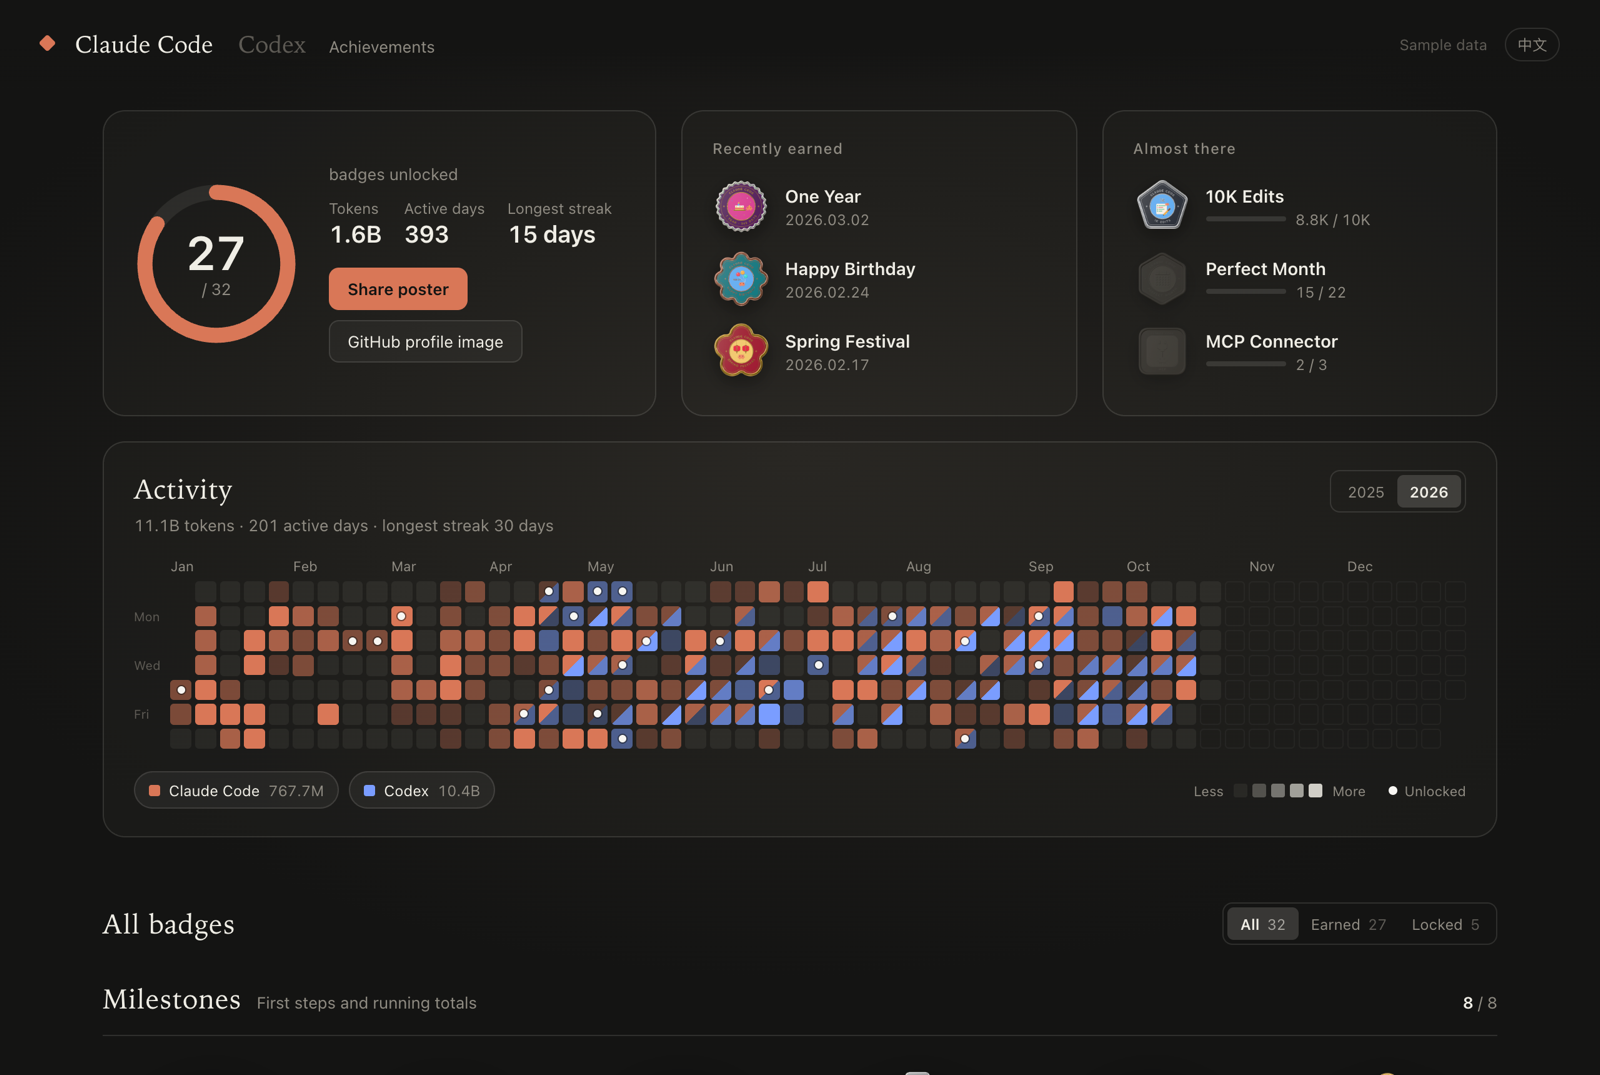
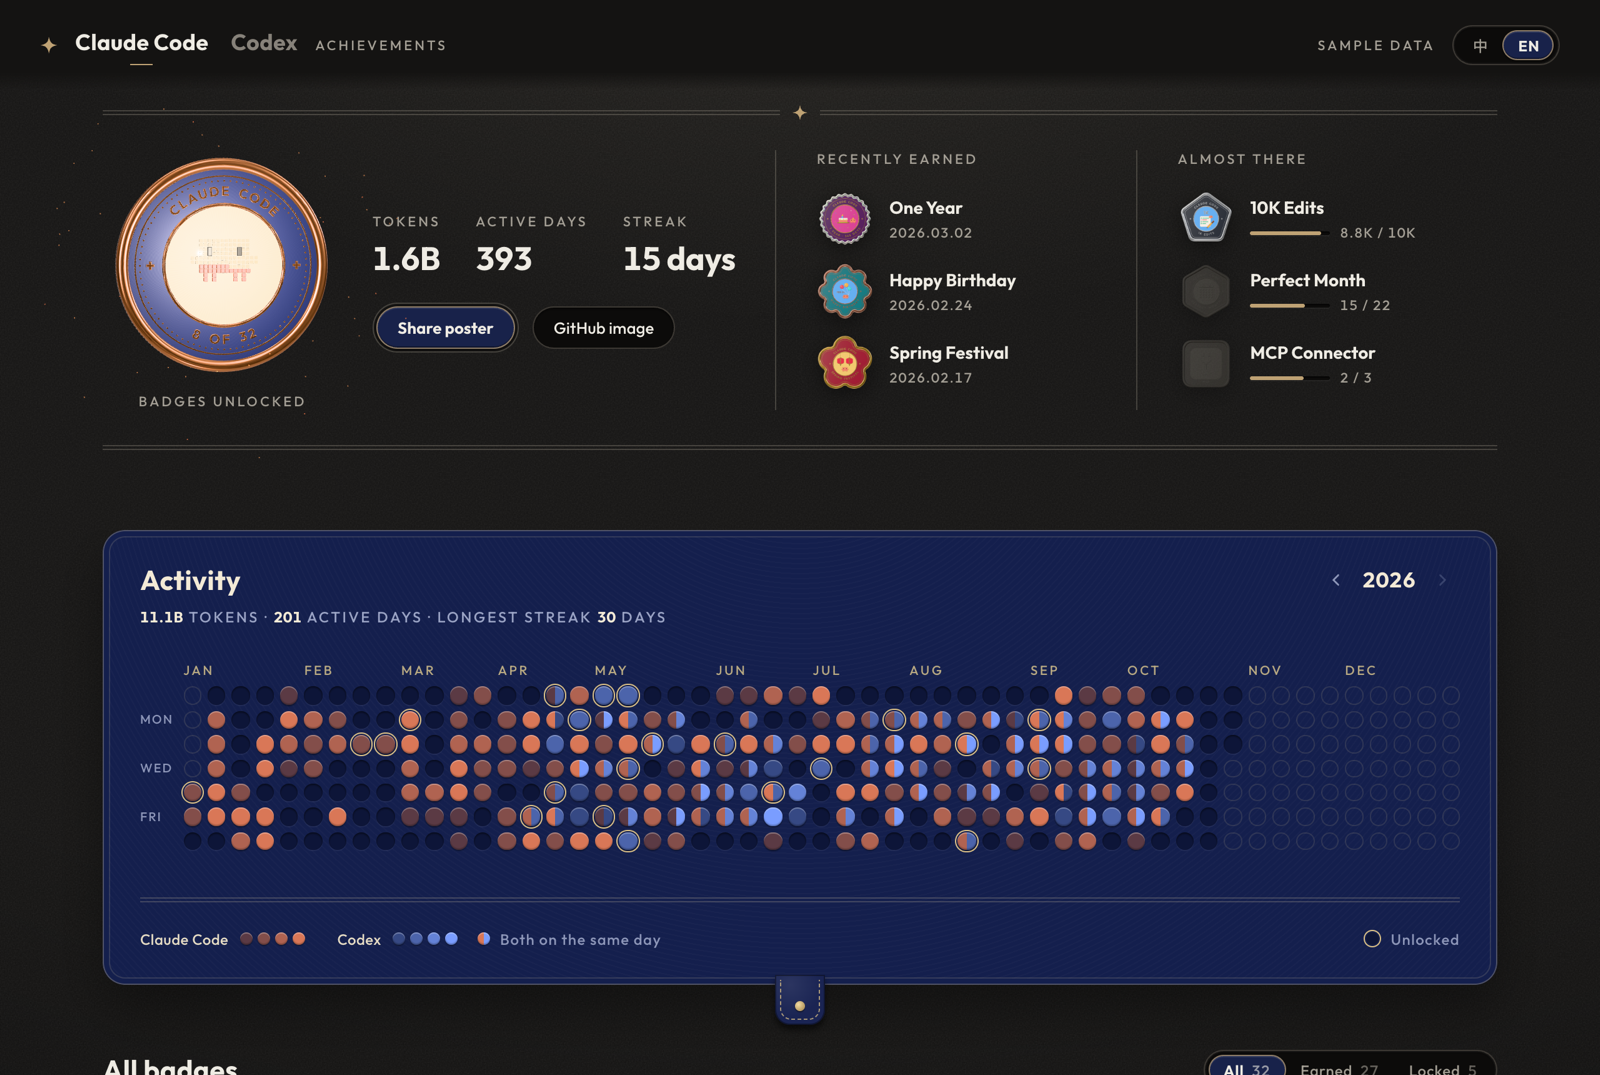
docs: README covers the completionist coin, the midnight-enamel heatmap and the yearly proof set; fresh screenshots

diff --git a/README.md b/README.md
@@ -33,12 +33,18 @@ One command opens your badge wall. Everything runs on your machine: it reads onl
 
 - **62 badges across two tools.** 32 for Claude Code, 30 for Codex: milestones, streaks and habits, features to discover, holidays, and a few hidden ones. Tiered badges level up through bronze, silver and gold (the Token badges add platinum), and the top tier unlocks one of three special designs at random.
 - **Real 3D.** Every badge is generated with three.js from a small config: enamel, polished and brushed metal, ceramic, holographic foil, crystal. Drag to spin it, flip it over to read the engraving on the back.
-- **A profile.** Unlock ring, total tokens, active days, longest streak, recently earned, and what you are closest to unlocking next.
-- **Your year as a heatmap.** Daily token usage on a calendar, both tools overlaid (a day you used both is split in two colors), with a dot on every day you unlocked a badge.
-- **Things to share.** Export any badge as a 2048 px PNG (transparent or ink background), generate a poster of your whole wall, or put an achievement card on your GitHub profile.
+- **A profile.** At the top left sits a completionist coin: the mosaic on its face fills in as you unlock more badges, and the rim turns from pewter to bronze, silver and gold as you pass a quarter, half and three quarters. Next to it: total tokens, active days, longest streak, recently earned, and what you are closest to unlocking next.
+- **Your year as a heatmap.** A midnight-enamel plate with one sunken dot per day, brighter the more you used. A day you used both tools is split down the middle, and days you unlocked a badge get a gold ring. Toggle each tool in the legend and step between years.
+- **A yearly proof set.** Pull a drawer out from under the heatmap to find twelve 3D month medals. The rim metal compares the month with your busiest month of the year: bronze from a quarter, silver from half, gold from three quarters, pewter below that. Every day is a fired-enamel bead set in a metal ring. Click a medal and it flies out of the tray; drag it, flip it over for the laurel and the month, and it flies back when you close it.
+- **Things to share.** Export any badge or month medal as a 2048 px PNG (transparent or ink background), generate a poster of your whole wall, or put an achievement card on your GitHub profile.
 - **English and Chinese.** The page follows your browser, with a switch in the top bar.
 
-![The badge wall: profile, annual heatmap and the first badges](assets/screenshot-wall.png)
+![The badge wall: completionist coin, profile and annual heatmap](assets/screenshot-wall.png)
+
+<p align="center">
+  <img src="assets/screenshot-proof-set.png" alt="The yearly proof set: twelve 3D month medals" width="49%" />
+  <img src="assets/screenshot-medal.png" alt="The May medal opened, with that month's tokens, active days and badges unlocked" width="49%" />
+</p>
 
 <details>
 <summary><b>All badges</b></summary>

diff --git a/README.zh-CN.md b/README.zh-CN.md
@@ -33,12 +33,18 @@ npx agent-badges
 
 - **两个工具，62 枚徽章。** Claude Code 32 枚，Codex 30 枚，分为里程碑、连续与习惯、功能探索、节日限定几个系列，还藏着几枚彩蛋。分级徽章从铜、银到金逐级升级，Token 徽章再多一级白金；最高一级有三款设计，解锁时随机得到其中一款。
 - **真正的 3D。** 每枚徽章都由 three.js 按配置实时生成，材质有珐琅、抛光金属、拉丝金属、陶瓷、全息镭射和水晶。可以拖着转，也可以翻到背面看刻字。
-- **成就档案。** 解锁进度、累计 Token、活跃天数、最长连续天数一目了然，还能看到最近拿到了哪几枚、哪几枚快到手了。
-- **年度热力图。** 每天的 Token 用量排成一张日历。两个工具同一天都用过，那一格就是两种颜色；解锁徽章的日子会多一个小圆点。
-- **方便分享。** 单枚徽章可以导出 2048 像素的 PNG（透明或深色背景），整面墙可以一键生成分享海报，也可以把徽章挂到 GitHub 个人主页上。
+- **成就档案。** 左上角是一枚全解锁铸币：解锁得越多，正面的马赛克拼得越完整；解锁到四分之一、一半、四分之三，外圈依次从锡换成铜、银、金。旁边是累计 Token、活跃天数、最长连续天数，以及最近拿到的和快到手的徽章。
+- **年度热力图。** 一块午夜蓝珐琅底板，每天一个凹点，用得越多颜色越亮。两个工具同一天都用过，那一点左右各半；解锁徽章的日子套一圈金边。图例可以单独开关某个工具，右上角切换年份。
+- **年度铸币套装。** 从热力图下面拉出一个抽屉，一年 12 枚 3D 月章。外圈金属看这个月的用量：和当年用得最多的那个月比，到四分之一是铜，到一半是银，到四分之三是金，不到四分之一是锡。每天是一颗火珐琅珠，镶在金属环上。点开一枚，它会从托盘里飞出来，可以拖着转、翻到背面看月桂和月份，关上后再飞回原位。
+- **方便分享。** 单枚徽章和月章都可以导出 2048 像素的 PNG（透明或深色背景），整面墙可以一键生成分享海报，也可以把徽章挂到 GitHub 个人主页上。
 - **中英双语。** 页面语言跟随浏览器，顶栏可以随时切换。
 
-![徽章墙：成就档案、年度热力图和第一排徽章](assets/screenshot-wall.png)
+![徽章墙：全解锁铸币、成就档案和年度热力图](assets/screenshot-wall.png)
+
+<p align="center">
+  <img src="assets/screenshot-proof-set.png" alt="年度铸币套装：12 枚 3D 月章" width="49%" />
+  <img src="assets/screenshot-medal.png" alt="点开的 5 月月章，旁边是这个月的 Token、活跃天数和解锁徽章" width="49%" />
+</p>
 
 <details>
 <summary><b>全部徽章</b></summary>
